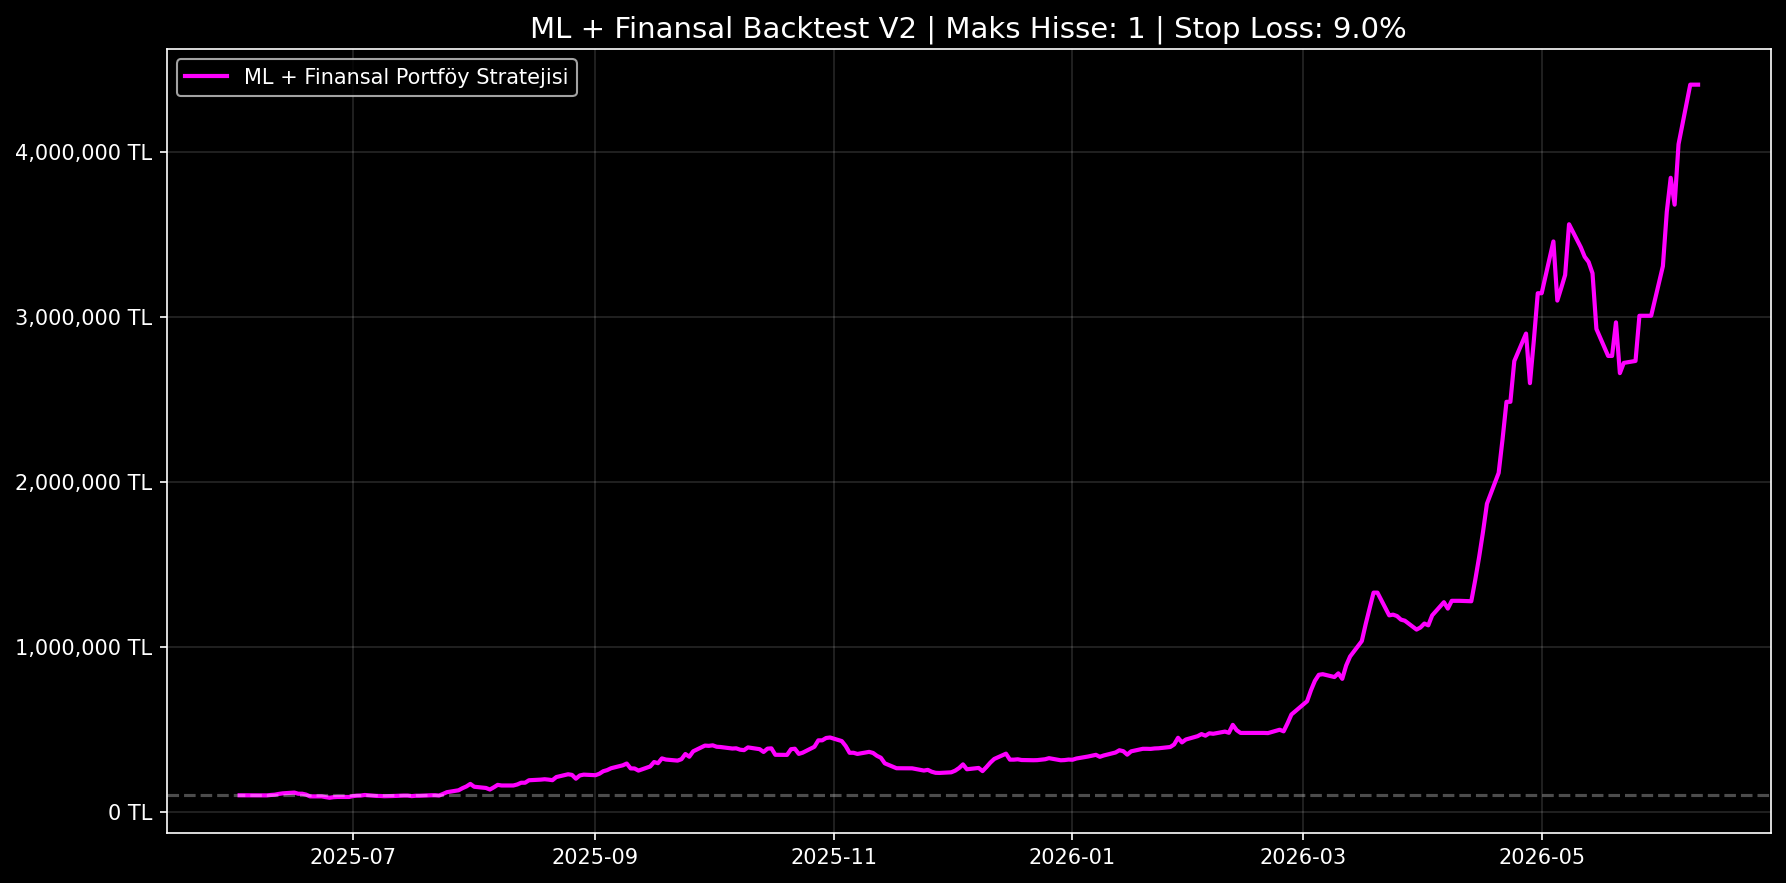
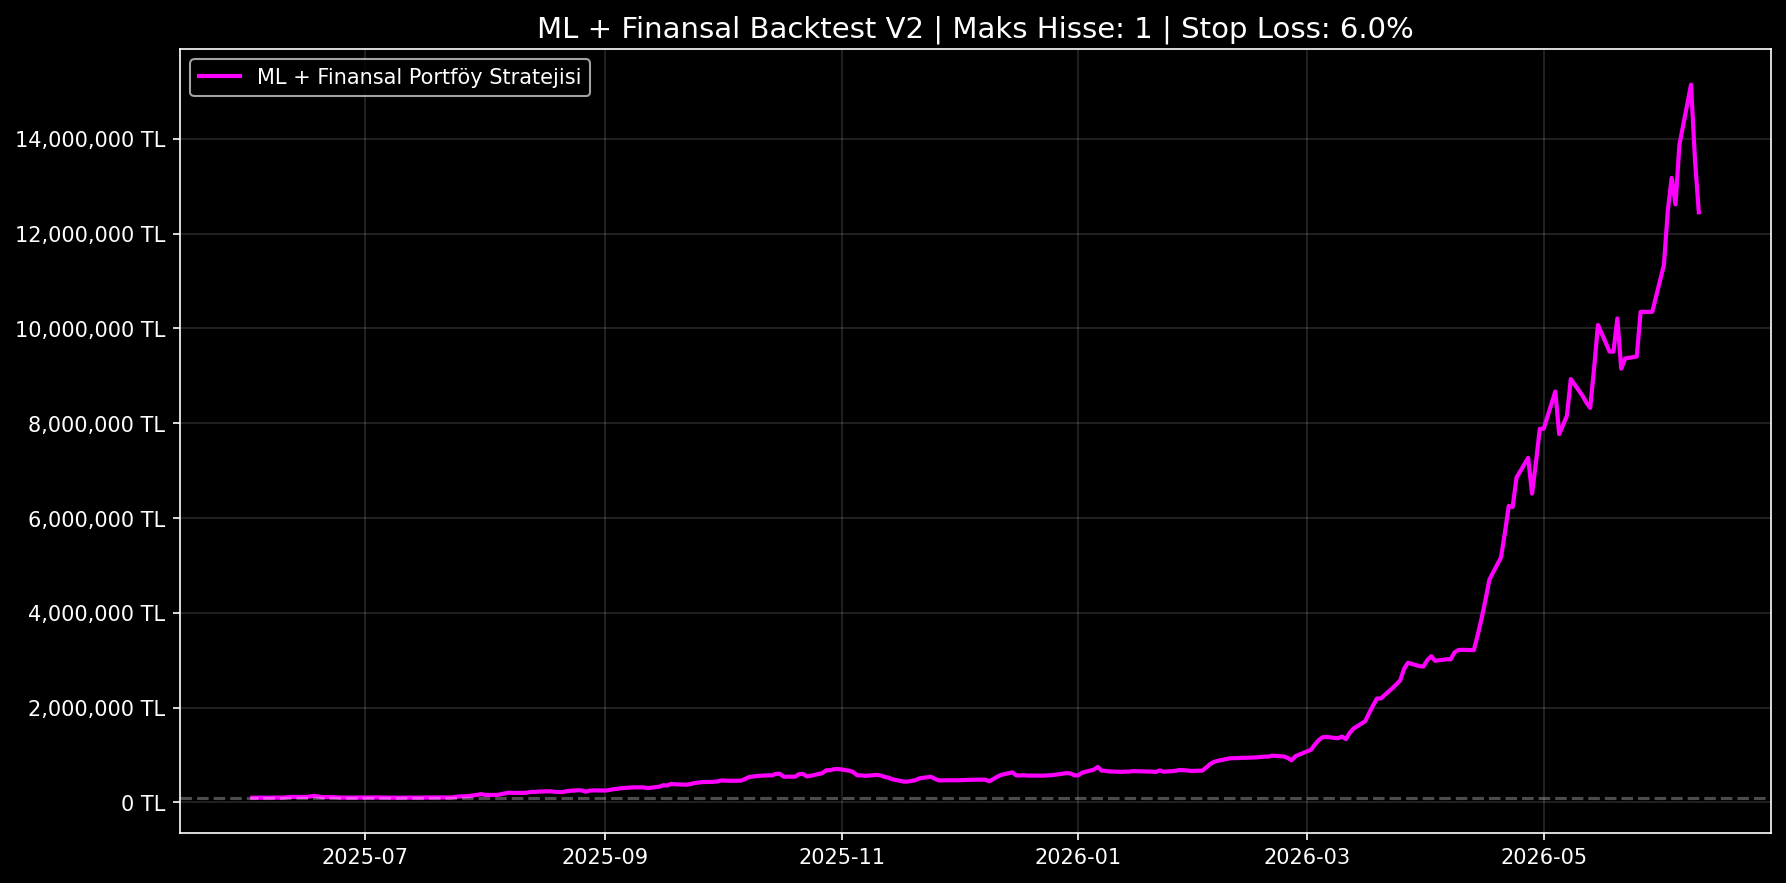
.

diff --git a/optimize_portfolio_v2.py b/optimize_portfolio_v2.py
@@ -36,10 +36,28 @@ def run_simulation_portfolio(params):
     try:
         max_hold_delta = pd.Timedelta(days=hold_days)
         current_cash = START_CAPITAL
-        active_portfolio = [] # {'t': ticker, 'l': lots, 'b': buy_price, 'max_p': peak_price, 'buy_dt': date, 'days_held': int}
+        active_portfolio = [] # {'t': ticker, 'l': lots, 'b': buy_price, 'max_p': peak_price, 'buy_dt': date}
+        
+        peak_portfolio_val = START_CAPITAL
+        max_dd = 0.0
         
         for dt in worker_trading_days:
-            # A. Mevcut Portföy Kontrolü (Satışlar)
+            # 1. Portföy Değerini Hesapla ve Max DD'yi Güncelle
+            daily_val = current_cash
+            for item in active_portfolio:
+                cp = worker_raw_data.at[dt, item['t']]
+                if pd.isna(cp) or cp <= 0:
+                    cp = item['b']
+                daily_val += item['l'] * cp
+                
+            if daily_val > peak_portfolio_val:
+                peak_portfolio_val = daily_val
+                
+            dd = (peak_portfolio_val - daily_val) / peak_portfolio_val
+            if dd > max_dd:
+                max_dd = dd
+
+            # 2. Mevcut Portföy Kontrolü (Satışlar)
             for item in active_portfolio[:]:
                 current_price = worker_raw_data.at[dt, item['t']]
                 if pd.isna(current_price) or current_price <= 0:
@@ -62,8 +80,6 @@ def run_simulation_portfolio(params):
                     revenue = item['l'] * current_price * (1 - COMMISSION_RATE)
                     current_cash += revenue
                     active_portfolio.remove(item)
-                else:
-                    item['days_held'] += 1
 
             # B. Yeni Alımlar
             empty_slots = num_stocks - len(active_portfolio)
@@ -106,8 +122,7 @@ def run_simulation_portfolio(params):
                                         'l': lots,
                                         'b': buy_price,
                                         'max_p': buy_price,
-                                        'buy_dt': dt,
-                                        'days_held': 0
+                                        'buy_dt': dt
                                     })
                                     
         # Simülasyon bitti, son günü değerle
@@ -129,7 +144,8 @@ def run_simulation_portfolio(params):
             'min_fin': min_fin,
             'max_fin': max_fin,
             'final_balance': final_val,
-            'roi': roi
+            'roi': roi,
+            'max_dd': max_dd
         }
     except Exception as e:
         return {'error': str(e), 'params': params}
@@ -236,8 +252,7 @@ def main():
     print("Her gün için KNN tahminleri önceden hesaplanıyor (Bu işlem grid search'ü uçuracak)...")
     daily_candidates = {}
     
-    max_candidates_needed = 10 # N=10'a kadar test edeceğiz, ilk 10 yeterli
-    
+    # Max threshold limitini kaldırıyoruz, tüm listeyi precompute etmeli ki backtest_v2 ile aynı çalışsın.
     for dt in tqdm(trading_days, desc="Precomputing Daily Predictions"):
         idx = precalc['prices'].index.get_indexer([dt], method='pad')[0]
         if idx < 0:
@@ -277,7 +292,7 @@ def main():
             
             best_cands = today_df[(today_df['exp_pl'] > 0) & (today_df['win_rate'] >= 50)]
             # Yeni sıralama kriteri ile (Finansal x Küme) sırala
-            best_cands = best_cands.sort_values(by='fin_x_kume_guveni', ascending=False).head(max_candidates_needed)
+            best_cands = best_cands.sort_values(by='fin_x_kume_guveni', ascending=False)
             
             # Dictionary formatında sakla
             cands_list = []
@@ -331,8 +346,8 @@ def main():
         pt = random.randint(1, 5)
         return ind1[:pt] + ind2[pt:]
 
-    POPULATION_SIZE = 100
-    GENERATIONS = 15
+    POPULATION_SIZE = 1000
+    GENERATIONS = 200
     
     print(f"\n🧬 Genetik Algoritma (Heuristic Search) Başlatılıyor...")
     print(f"Popülasyon: {POPULATION_SIZE}, Jenerasyon: {GENERATIONS} (Toplam Test: {POPULATION_SIZE * GENERATIONS})")
@@ -350,15 +365,21 @@ def main():
             results = list(pool.imap_unordered(run_simulation_portfolio, population))
             valid_results = [r for r in results if 'error' not in r]
             
-            valid_results.sort(key=lambda x: x['roi'], reverse=True)
+            def get_fitness(res):
+                if res['roi'] <= 0:
+                    return res['roi']
+                return res['roi'] * (1 - res['max_dd'])
+                
+            valid_results.sort(key=get_fitness, reverse=True)
             
             for r in valid_results[:10]:
                 param_tuple = (r['num_stocks'], r['stop_loss'], r['hold_days'], r['min_conf'], r['max_conf'], r['min_fin'], r['max_fin'])
-                if param_tuple not in best_results_dict or best_results_dict[param_tuple]['roi'] < r['roi']:
+                if param_tuple not in best_results_dict or get_fitness(best_results_dict[param_tuple]) < get_fitness(r):
                     best_results_dict[param_tuple] = r
             
             best = valid_results[0]
-            print(f"Gen {gen+1:02d}/{GENERATIONS} | En İyi ROI: %{best['roi']:<8.2f} | N: {best['num_stocks']}, SL: %{best['stop_loss']*100:.1f}, Hold: {best['hold_days']}, Conf: [{best['min_conf']:.1f}, {best['max_conf']:.1f}], Fin: [{best['min_fin']:.1f}, {best['max_fin']:.1f}]")
+            best_fitness = get_fitness(best)
+            print(f"Gen {gen+1:02d}/{GENERATIONS} | Skor: {best_fitness:<6.0f} | ROI: %{best['roi']:<8.2f} | MaxDD: %{best['max_dd']*100:<5.1f} | N: {best['num_stocks']}, SL: %{best['stop_loss']*100:.1f}, Hold: {best['hold_days']}, Conf: [{best['min_conf']:.1f}, {best['max_conf']:.1f}], Fin: [{best['min_fin']:.1f}, {best['max_fin']:.1f}]")
             
             # Elitizm: En iyi 20'yi doğrudan bir sonraki nesle aktar
             next_gen = [(r['num_stocks'], r['stop_loss'], r['hold_days'], r['min_conf'], r['max_conf'], r['min_fin'], r['max_fin']) for r in valid_results[:20]]
@@ -385,14 +406,16 @@ def main():
     
     # 6. Sonuçları Raporla
     all_best_results = list(best_results_dict.values())
-    all_best_results.sort(key=lambda x: x['roi'], reverse=True)
+    # En iyi skorlar (ROI ve Max DD birleşik fitness)
+    all_best_results.sort(key=lambda x: x['roi'] * (1 - x['max_dd']), reverse=True)
     
-    print("\n" + "="*120)
-    print(f"{'RANK':<5} | {'ROI (%)':<10} | {'FINAL BAL':<15} | {'N_STOCKS':<8} | {'STOP_LOSS':<9} | {'HOLD_DAYS':<9} | {'MIN_CONF':<8} | {'MAX_CONF':<8} | {'MIN_FIN':<8} | {'MAX_FIN':<8}")
-    print("-" * 120)
+    print("\n" + "="*135)
+    print(f"{'RANK':<5} | {'SCORE':<8} | {'ROI (%)':<10} | {'MAX DD':<8} | {'FINAL BAL':<15} | {'N_STOCKS':<8} | {'STOP_LOSS':<9} | {'HOLD_DAYS':<9} | {'MIN_CONF':<8} | {'MAX_CONF':<8} | {'MIN_FIN':<8} | {'MAX_FIN':<8}")
+    print("-" * 135)
     
     for i, res in enumerate(all_best_results[:20]):
-        print(f"{i+1:<5} | %{res['roi']:<9.2f} | {res['final_balance']:<15,.2f} | {res['num_stocks']:<8} | {res['stop_loss']:<9.2f} | {res['hold_days']:<9} | {res['min_conf']:<8.1f} | {res['max_conf']:<8.1f} | {res['min_fin']:<8.1f} | {res['max_fin']:<8.1f}")
+        score = res['roi'] * (1 - res['max_dd'])
+        print(f"{i+1:<5} | {score:<8.0f} | %{res['roi']:<9.2f} | %{res['max_dd']*100:<7.2f} | {res['final_balance']:<15,.2f} | {res['num_stocks']:<8} | {res['stop_loss']:<9.2f} | {res['hold_days']:<9} | {res['min_conf']:<8.1f} | {res['max_conf']:<8.1f} | {res['min_fin']:<8.1f} | {res['max_fin']:<8.1f}")
 
     print("="*120)
     

diff --git a/portfolio_backtest_v2.py b/portfolio_backtest_v2.py
@@ -76,12 +76,12 @@ def fetch_and_calculate_financial_score(tickers):
 def main():
     parser = argparse.ArgumentParser(description="Portfolio Backtest v2 using Finansal x Küme Güveni")
     parser.add_argument('-n', '--num-stocks', type=int, default=1, help="Maksimum tutulacak hisse sayısı (default: 1)")
-    parser.add_argument('-s', '--stop-loss', type=float, default=0.09, help="Zarar kesme (Trailing Stop) yüzdesi (default: 0.09 = %%9)")
-    parser.add_argument('-d', '--hold-days', type=int, default=16, help="Maksimum elde tutma gün sayısı (default: 16)")
+    parser.add_argument('-s', '--stop-loss', type=float, default=0.06, help="Zarar kesme (Trailing Stop) yüzdesi (default: 0.09 = %%9)")
+    parser.add_argument('-d', '--hold-days', type=int, default=10, help="Maksimum elde tutma gün sayısı (default: 16)")
     parser.add_argument('--min-conf', type=float, default=4.1, help="Minimum ML Confidence Score")
-    parser.add_argument('--max-conf', type=float, default=43.2, help="Maksimum ML Confidence Score")
-    parser.add_argument('--min-fin', type=float, default=-7.6, help="Minimum Finansal Güven Skoru")
-    parser.add_argument('--max-fin', type=float, default=93.4, help="Maksimum Finansal Güven Skoru")
+    parser.add_argument('--max-conf', type=float, default=10.1, help="Maksimum ML Confidence Score")
+    parser.add_argument('--min-fin', type=float, default=-6.0, help="Minimum Finansal Güven Skoru")
+    parser.add_argument('--max-fin', type=float, default=93.6, help="Maksimum Finansal Güven Skoru")
     
     args = parser.parse_args()
     
